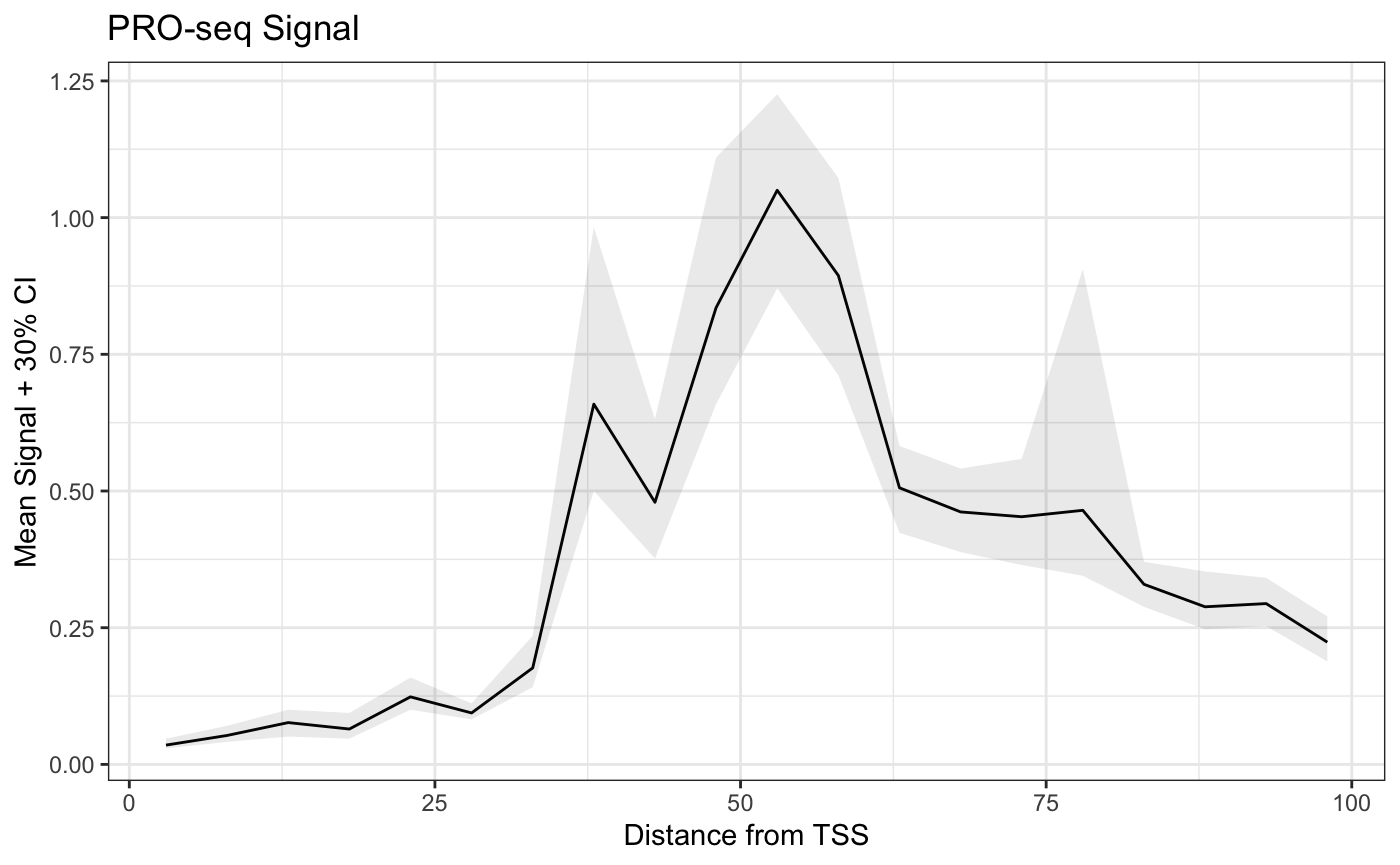
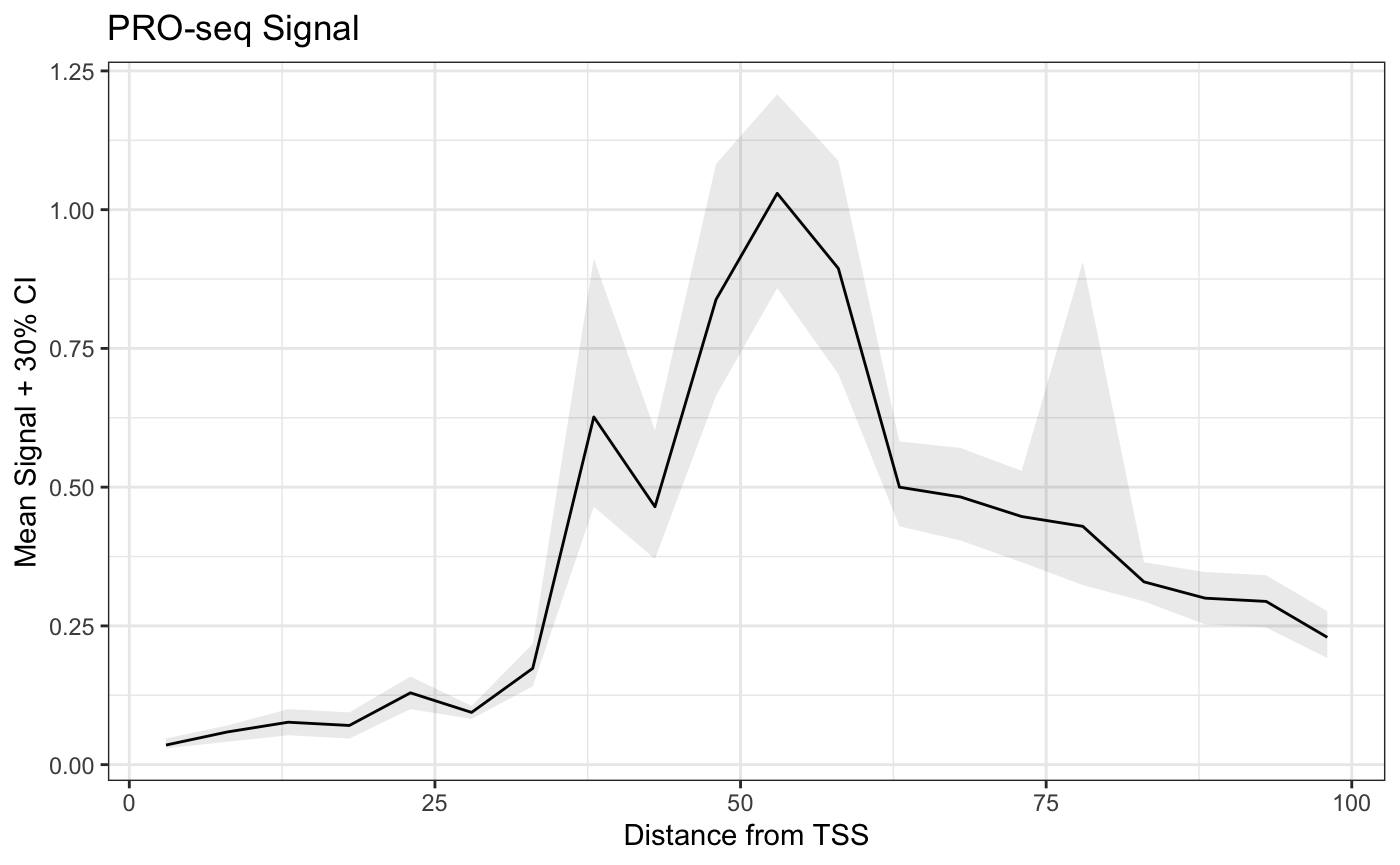
add travis & codecov; update badges

diff --git a/articles/ProfilePlotsAndBootstrapping.html b/articles/ProfilePlotsAndBootstrapping.html
@@ -184,11 +184,11 @@
 <span class="fu"><a href="https://rdrr.io/r/utils/head.html">head</a></span>(<span class="no">bootmeans.df</span>)</pre></body></html></div>
 <pre><code>##    x       mean      lower      upper sample.name
 ## 1  3 0.03529412 0.02941176 0.04705882      PROseq
-## 2  8 0.05294118 0.04117647 0.07058824      PROseq
-## 3 13 0.07647059 0.05088235 0.10000000      PROseq
-## 4 18 0.06470588 0.04705882 0.09411765      PROseq
-## 5 23 0.12352941 0.10000000 0.15882353      PROseq
-## 6 28 0.09411765 0.08235294 0.11176471      PROseq</code></pre>
+## 2  8 0.05882353 0.04117647 0.07058824      PROseq
+## 3 13 0.07647059 0.05294118 0.10000000      PROseq
+## 4 18 0.07058824 0.04705882 0.09411765      PROseq
+## 5 23 0.12941176 0.10000000 0.15882353      PROseq
+## 6 28 0.09411765 0.08235294 0.10588235      PROseq</code></pre>
 <p>A dataframe is returned for plotting, and notice how the x-values have been automatically adjusted to be the center of the bins.</p>
 <p>Below, we show how to plot the confidence bands using base R plotting, as well as <code>ggplot2</code>.</p>
 <div class="sourceCode" id="cb7"><html><body><pre class="r"><span class="fu"><a href="https://rdrr.io/r/base/plot.html">plot</a></span>(<span class="no">mean</span> ~ <span class="no">x</span>, <span class="kw">data</span> <span class="kw">=</span> <span class="no">bootmeans.df</span>, <span class="kw">type</span> <span class="kw">=</span> <span class="st">"l"</span>,
@@ -225,10 +225,10 @@
                             <span class="kw">lower</span> <span class="kw">=</span> <span class="fl">0.35</span>, <span class="kw">upper</span> <span class="kw">=</span> <span class="fl">0.65</span>, <span class="kw">ncores</span> <span class="kw">=</span> <span class="fl">1</span>)
 <span class="fu"><a href="https://rdrr.io/r/utils/head.html">head</a></span>(<span class="no">bm_list.df</span>)</pre></body></html></div>
 <pre><code>##    x       mean       lower      upper sample.name
-## 1  3 0.01176471 0.005882353 0.02352941         ps1
-## 2  8 0.01764706 0.017647059 0.02352941         ps1
+## 1  3 0.01176471 0.005882353 0.01764706         ps1
+## 2  8 0.01764706 0.011764706 0.02352941         ps1
 ## 3 13 0.01764706 0.011764706 0.02352941         ps1
-## 4 18 0.04117647 0.023529412 0.05294118         ps1
+## 4 18 0.03529412 0.017647059 0.04705882         ps1
 ## 5 23 0.02941176 0.017647059 0.04705882         ps1
 ## 6 28 0.02941176 0.023529412 0.03529412         ps1</code></pre>
 <div class="sourceCode" id="cb14"><html><body><pre class="r"><span class="fu"><a href="https://rdrr.io/r/base/library.html">require</a></span>(<span class="no">ggplot2</span>)

diff --git a/index.html b/index.html
@@ -122,7 +122,8 @@
 <div id="brgenomics" class="section level1">
 <div class="page-header"><h1 class="hasAnchor">
 <a href="#brgenomics" class="anchor"></a>BRGenomics</h1></div>
-<!-- badges: start -->
+<!-- badges: start (versions currently manual...) -->
+
 <!-- badges: end -->
 <p>Efficient tools for the analysis of high-resolution genomics data in R.</p>
 <p>Explore the documentation: <a href="https://mdeber.github.io/" class="uri">https://mdeber.github.io/</a></p>
@@ -200,7 +201,19 @@
 </ul>
 </div>
 
-  </div>
+  <div class="dev-status">
+<h2>Dev status</h2>
+<ul class="list-unstyled">
+<li><a href="https://bioconductor.org/checkResults/release/bioc-LATEST/BRGenomics/"><img src="https://img.shields.io/badge/platforms-linux%20%7C%20osx%20%7C%20win-yellow.svg" alt="platforms"></a></li>
+<li><a href="https://www.bioconductor.org/packages/BRGenomics"><img src="https://img.shields.io/badge/release%20version-1.0.3-navy.svg" alt="release"></a></li>
+<li><a href="http://bioconductor.org/checkResults/devel/bioc-LATEST/BRGenomics/"><img src="http://www.bioconductor.org/shields/lastcommit/release/bioc/BRGenomics.svg" alt="updated"></a></li>
+<li><a href="https://github.com/mdeber/BRGenomics"><img src="https://img.shields.io/badge/devel%20version-1.1.3-orange.svg" alt="devel"></a></li>
+<li><a href="https://github.com/mdeber/BRGenomics/commits/master"><img src="https://img.shields.io/github/last-commit/mdeber/BRGenomics.svg" alt="last commit"></a></li>
+<li><a href="https://bioconductor.org/checkResults/release/bioc-LATEST/BRGenomics/"><img src="http://www.bioconductor.org/shields/build/release/bioc/BRGenomics.svg" alt="BioC status"></a></li>
+<li><a href="https://codecov.io/gh/mdeber/BRGenomics"><img src="https://codecov.io/gh/mdeber/BRGenomics/branch/master/graph/badge.svg" alt="test coverage"></a></li>
+</ul>
+</div>
+</div>
 </div>
 
 
